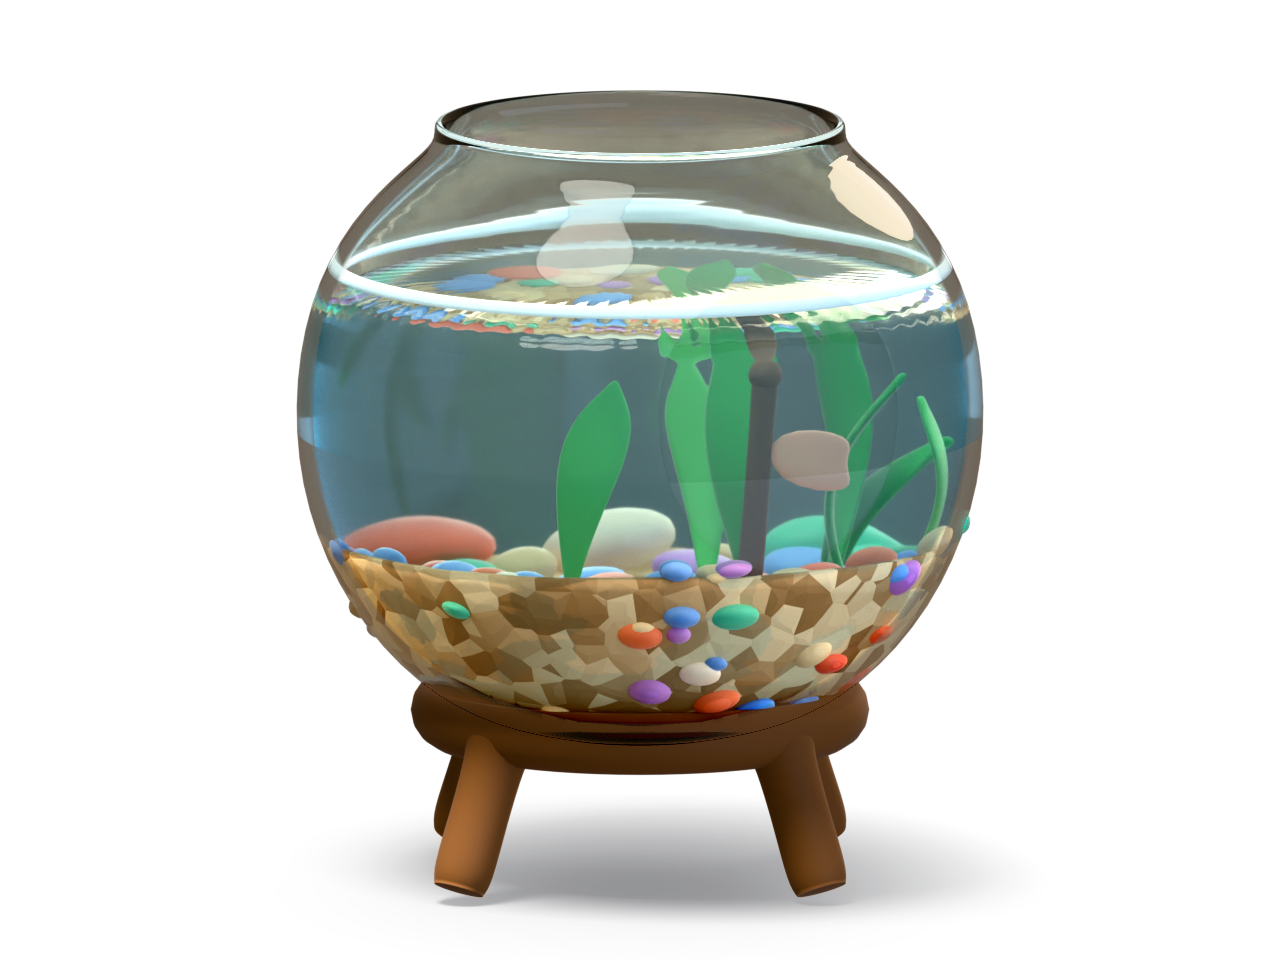
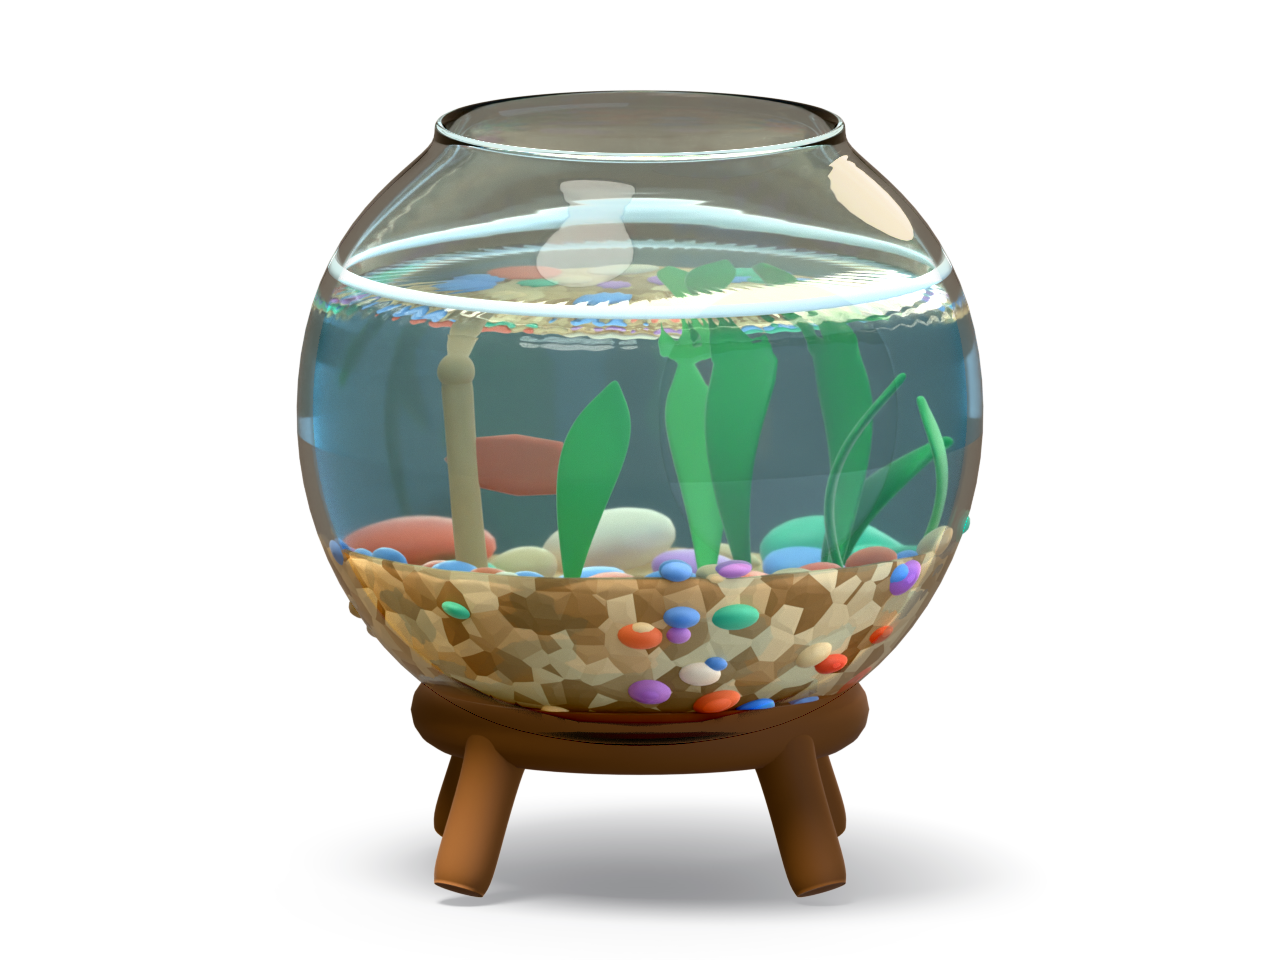
Ship only the art the app loads
The bundle was 15 MB and about half of it was never fetched: the retired 160x120
concept round, two folders of earlier-round reference sprites, the bitmap font
dropped in the chrome restyle, and a stale copy of the raw Blender output. The
build plugin that already dropped dist/reference now drops those too, and the
files stay in the repo as source. 15 MB -> 7.6 MB.

Also takes the second-round memorial render, which has the marker and greyed
water rather than being a copy of the plain bowl.

Fixes a real bug the restyle introduced: the pantry dialog sized text by
character count times font size, exact for a bitmap face that advances 1 em per
glyph and meaningless for the proportional one that replaced it.

Changed region(s): [[0.5625, 0.3125, 0.6875, 0.5938], [0.3438, 0.3125, 0.4375, 0.5938]]

diff --git a/src/ui/pantryDialog.ts b/src/ui/pantryDialog.ts
@@ -18,10 +18,18 @@ const DEFAULT_AMOUNT = 100;
 /** Card width: min(CARD_MAX_WIDTH, habitat hit width - 8), never below CARD_MIN_WIDTH; box-sizing border-box. */
 export const CARD_MIN_WIDTH = 120;
 export const CARD_MAX_WIDTH = 240;
-/** Widest possible text row: CARD_MAX_WIDTH minus 6 px padding and 1 px border on each side. */
-export const CARD_MAX_INNER_WIDTH = CARD_MAX_WIDTH - 2 * 6 - 2 * 1;
-/** Press Start 2P advances exactly 1 em (8 px at the modal's 8 px font-size) per glyph. */
-export const MODAL_GLYPH_PX = 8;
+/** Widest possible text row: CARD_MAX_WIDTH minus the 14 px horizontal padding of `.modal`, no border. */
+export const CARD_MAX_INNER_WIDTH = CARD_MAX_WIDTH - 2 * 14;
+/**
+ * Generous UPPER BOUND on one glyph's advance in the modal's 11 px system face — not an exact figure.
+ *
+ * It used to be exact: Press Start 2P is a bitmap face that advances exactly 1 em per glyph, so a line's
+ * width was its character count times the font size. The chrome now uses a proportional typeface, where
+ * no such arithmetic exists, so this is a bound chosen to sit well above the widest mixed-case glyph
+ * rather than a measurement. It only supports the "fits on one line" check below; nothing lays out
+ * against it, and `.modal .line` wraps regardless, so being wrong here is cosmetic rather than broken.
+ */
+export const MODAL_GLYPH_MAX_PX = 7;
 
 /** Kept short enough to fit CARD_MAX_INNER_WIDTH on one line at M/L; wraps to two lines at S (`.modal .line`). */
 export const PANTRY_HINT = 'Auto-feeds 25 at hunger 30';

diff --git a/src/ui/pantryDialog.test.ts b/src/ui/pantryDialog.test.ts
@@ -1,13 +1,15 @@
 import { readFileSync } from 'node:fs';
 import { resolve } from 'node:path';
 import { describe, expect, it } from 'vitest';
-import { CARD_MAX_INNER_WIDTH, CARD_MAX_WIDTH, MODAL_GLYPH_PX, PANTRY_HINT } from './pantryDialog';
+import { CARD_MAX_INNER_WIDTH, CARD_MAX_WIDTH, MODAL_GLYPH_MAX_PX, PANTRY_HINT } from './pantryDialog';
 
-// Press Start 2P is a monospace bitmap face: every glyph advances 1 em, so text width is chars × font-size.
+// The chrome moved from a monospace bitmap face to a proportional system one, so a line's width is no
+// longer its character count times the font size. The first check is therefore an upper bound rather
+// than a measurement; the second is the one that actually guarantees nothing overflows the card.
 describe('pantry dialog text fits the card', () => {
   it('hint fits on one line inside the widest card (M/L scales)', () => {
     expect(CARD_MAX_WIDTH).toBe(240);
-    expect(PANTRY_HINT.length * MODAL_GLYPH_PX).toBeLessThanOrEqual(CARD_MAX_INNER_WIDTH);
+    expect(PANTRY_HINT.length * MODAL_GLYPH_MAX_PX).toBeLessThanOrEqual(CARD_MAX_INNER_WIDTH);
   });
 
   it('.modal .line wraps instead of overflowing the card border', () => {

diff --git a/vite.config.ts b/vite.config.ts
@@ -24,10 +24,14 @@ export default defineConfig({
   plugins: [
     webpetsDiag(),
     {
-      // The 1024 px reference renders are for humans only; never ship them.
-      name: 'webpets-strip-reference-art',
+      // Source and superseded art is for humans only; never ship it. `habitats-160x120` and the two
+      // sprite reference folders are the retired pixel-art rounds, and the bitmap font went with the
+      // chrome restyle; together they were about 4 MB of a 14 MB bundle that nothing loads.
+      name: 'webpets-strip-unshipped-art',
       closeBundle() {
-        rmSync(resolve(__dirname, 'dist/reference'), { recursive: true, force: true });
+        for (const dir of ['reference', 'habitats-160x120', 'sprites/pets-80', 'sprites/strips-80', 'fonts']) {
+          rmSync(resolve(__dirname, 'dist', dir), { recursive: true, force: true });
+        }
       },
     },
   ],

diff --git a/docs/DECISIONS.md b/docs/DECISIONS.md
@@ -398,3 +398,15 @@ work, arriving in the one place nobody had looked.
   was re-rendered, which is a test reporting that the art changed rather than that the maths broke. It
   derives from `BOWL_WATER_SHAPE` and `FISH_BODY` now.
 - `tools/gen_bg.py`, `gen_fish.py` and `gen_placeholders.py` are retired with the art they produced.
+
+### shipping only what is used
+The bundle was 15 MB, of which about half was art nothing loads: the retired 160x120 concept round, two
+folders of earlier-round reference sprites, the bitmap font the chrome no longer uses, and a stale copy
+of the raw Blender output. The build plugin that already dropped `dist/reference` now drops all of them;
+the files stay in the repo as source and reference. 15 MB -> 7.6 MB.
+
+**One real bug the chrome restyle introduced, found while doing it.** `pantryDialog.ts` sized its text by
+character count times font size, which is exact for Press Start 2P (a bitmap face advancing 1 em per
+glyph) and meaningless for the proportional face that replaced it. The constant is now documented as a
+generous upper bound rather than a measurement, and the guarantee that nothing overflows rests where it
+always really did: `.modal .line` wraps.
